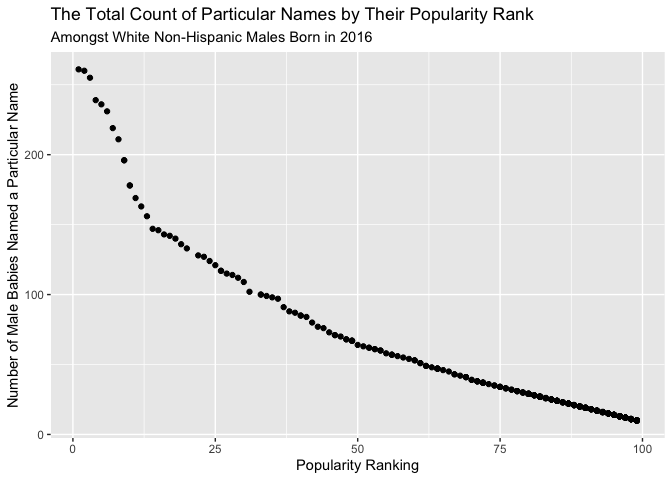
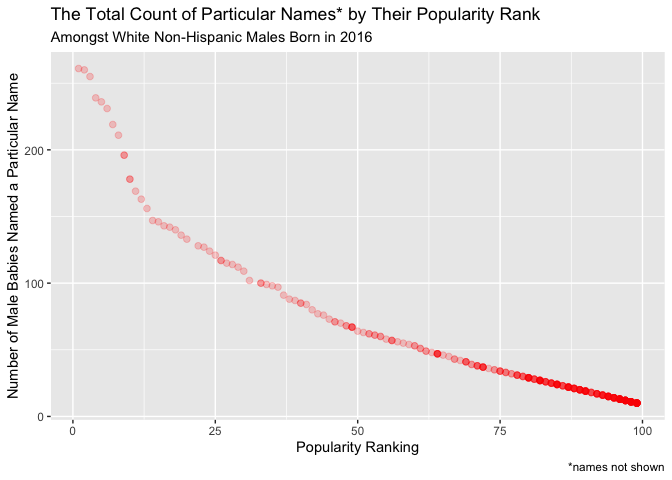
my OCD got the best of me. updated some of the graphical features.

diff --git a/p8105_hw2_jpb2210.md b/p8105_hw2_jpb2210.md
@@ -304,12 +304,13 @@ baby_data_plot <-
            gender == "male",
            year_of_birth == 2016)
 
-bdp <- ggplot(baby_data_plot, aes(x = rank, y = count))  + geom_point()
+bdp <- ggplot(baby_data_plot, aes(x = rank, y = count))  + geom_point(colour = "red", size = 2, alpha = 1/5)
 bdp + labs(
-    title = "The Total Count of Particular Names by Their Popularity Rank",
+    title = "The Total Count of Particular Names* by Their Popularity Rank",
     subtitle = "Amongst White Non-Hispanic Males Born in 2016",
     x = "Popularity Ranking",
-    y = "Number of Male Babies Named a Particular Name")
+    y = "Number of Male Babies Named a Particular Name",
+    caption = "*names not shown")
 ```
 
 <img src="p8105_hw2_jpb2210_files/figure-gfm/scatterplot_of_names-1.png" style="display: block; margin: auto;" />
